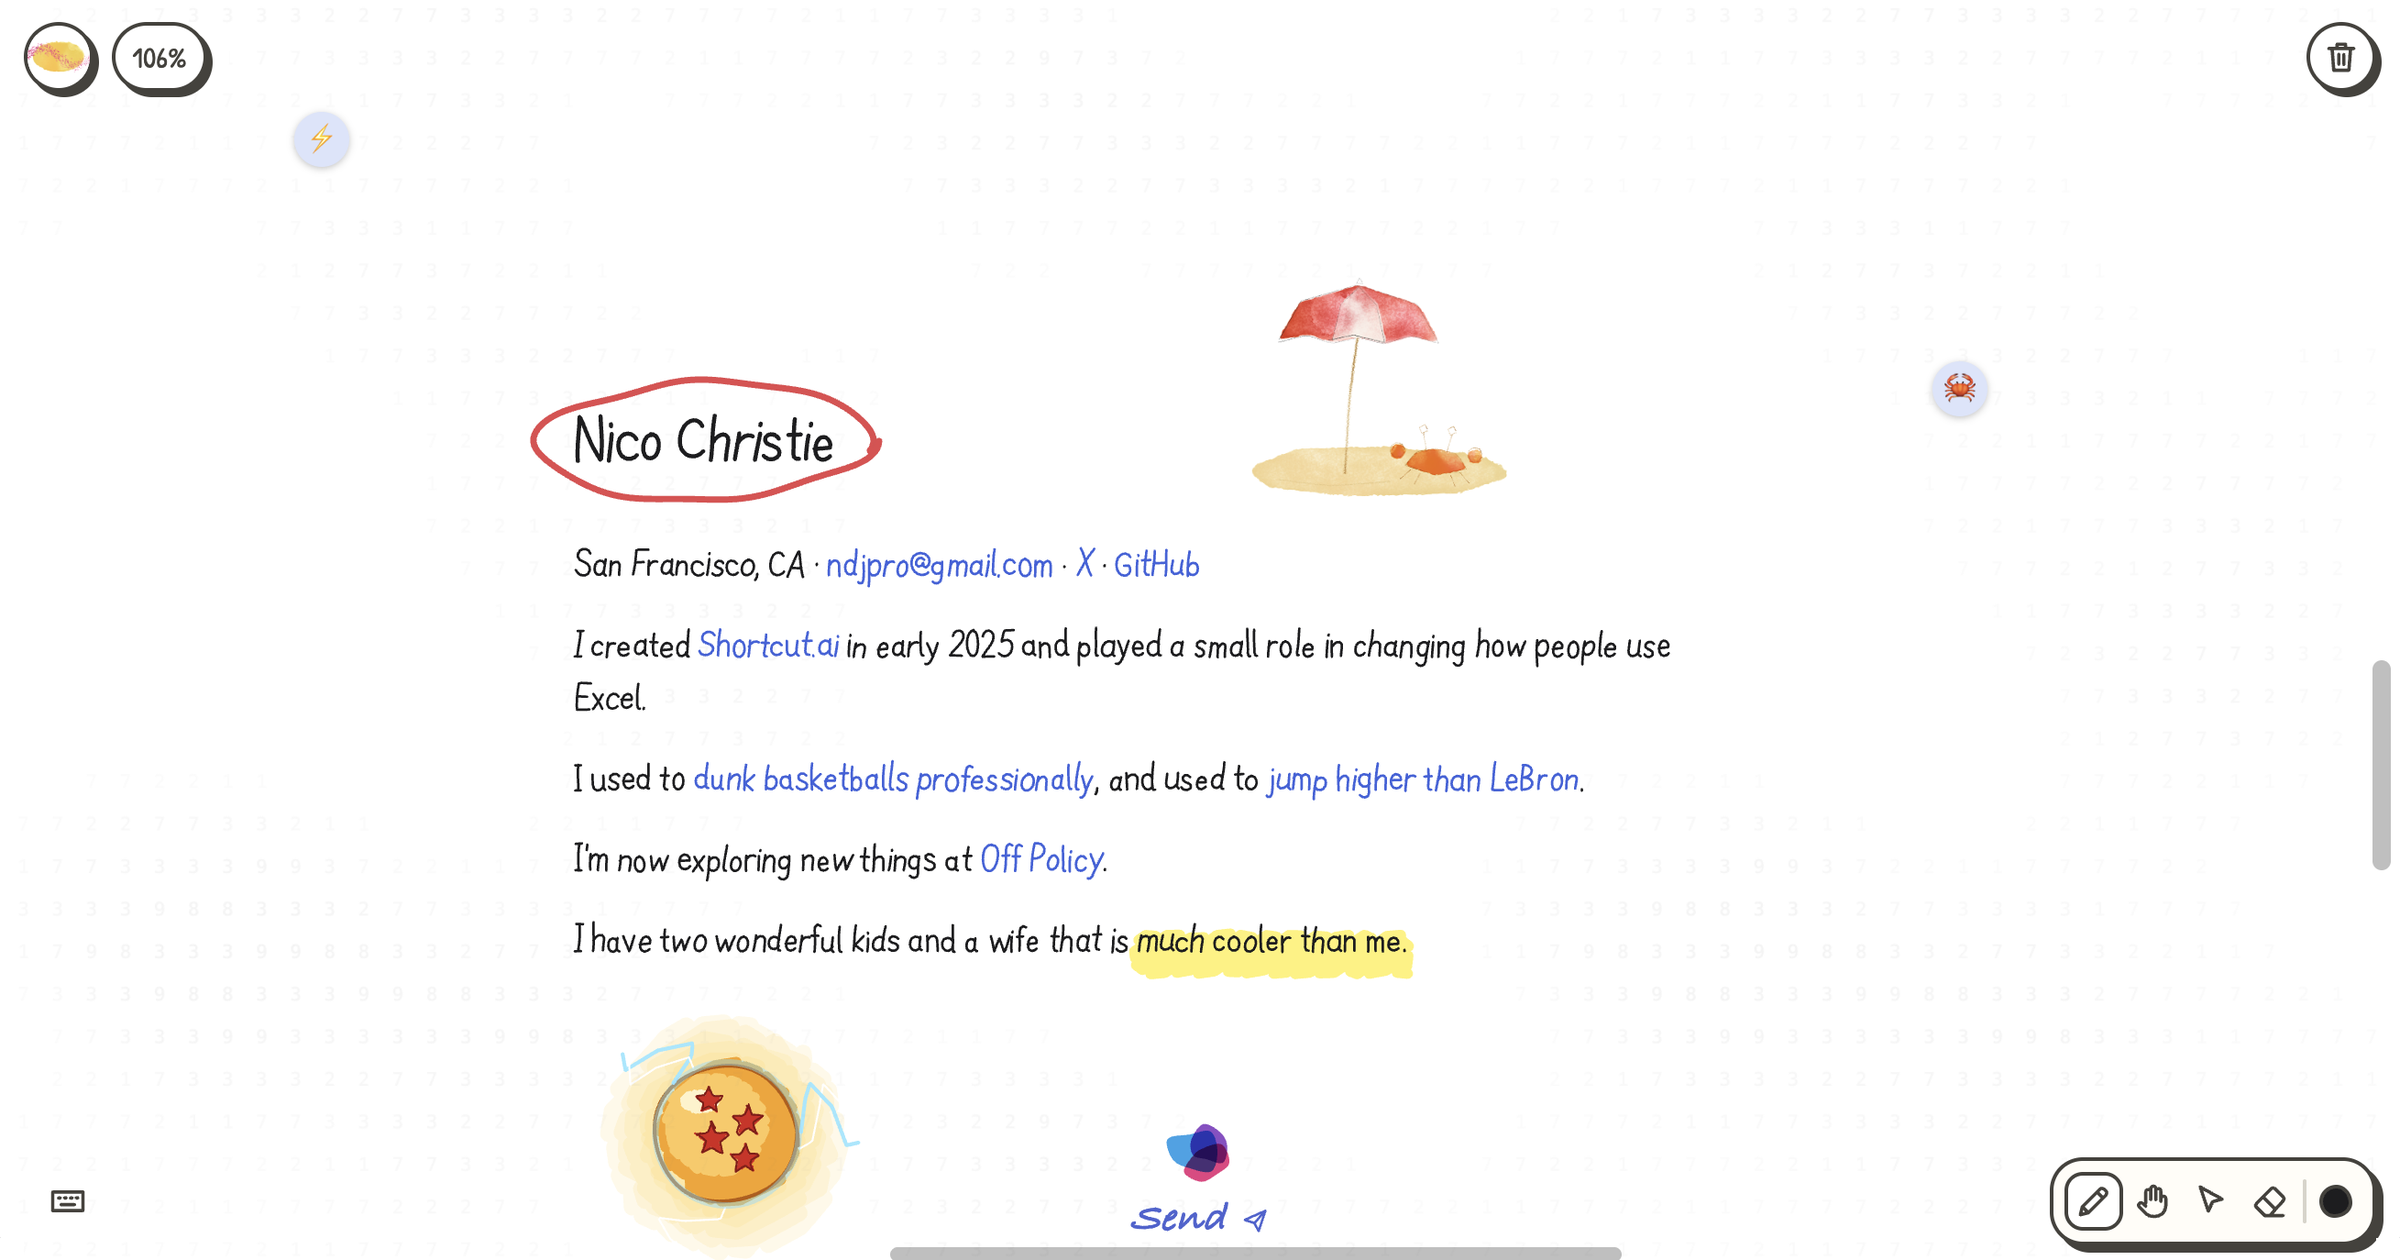
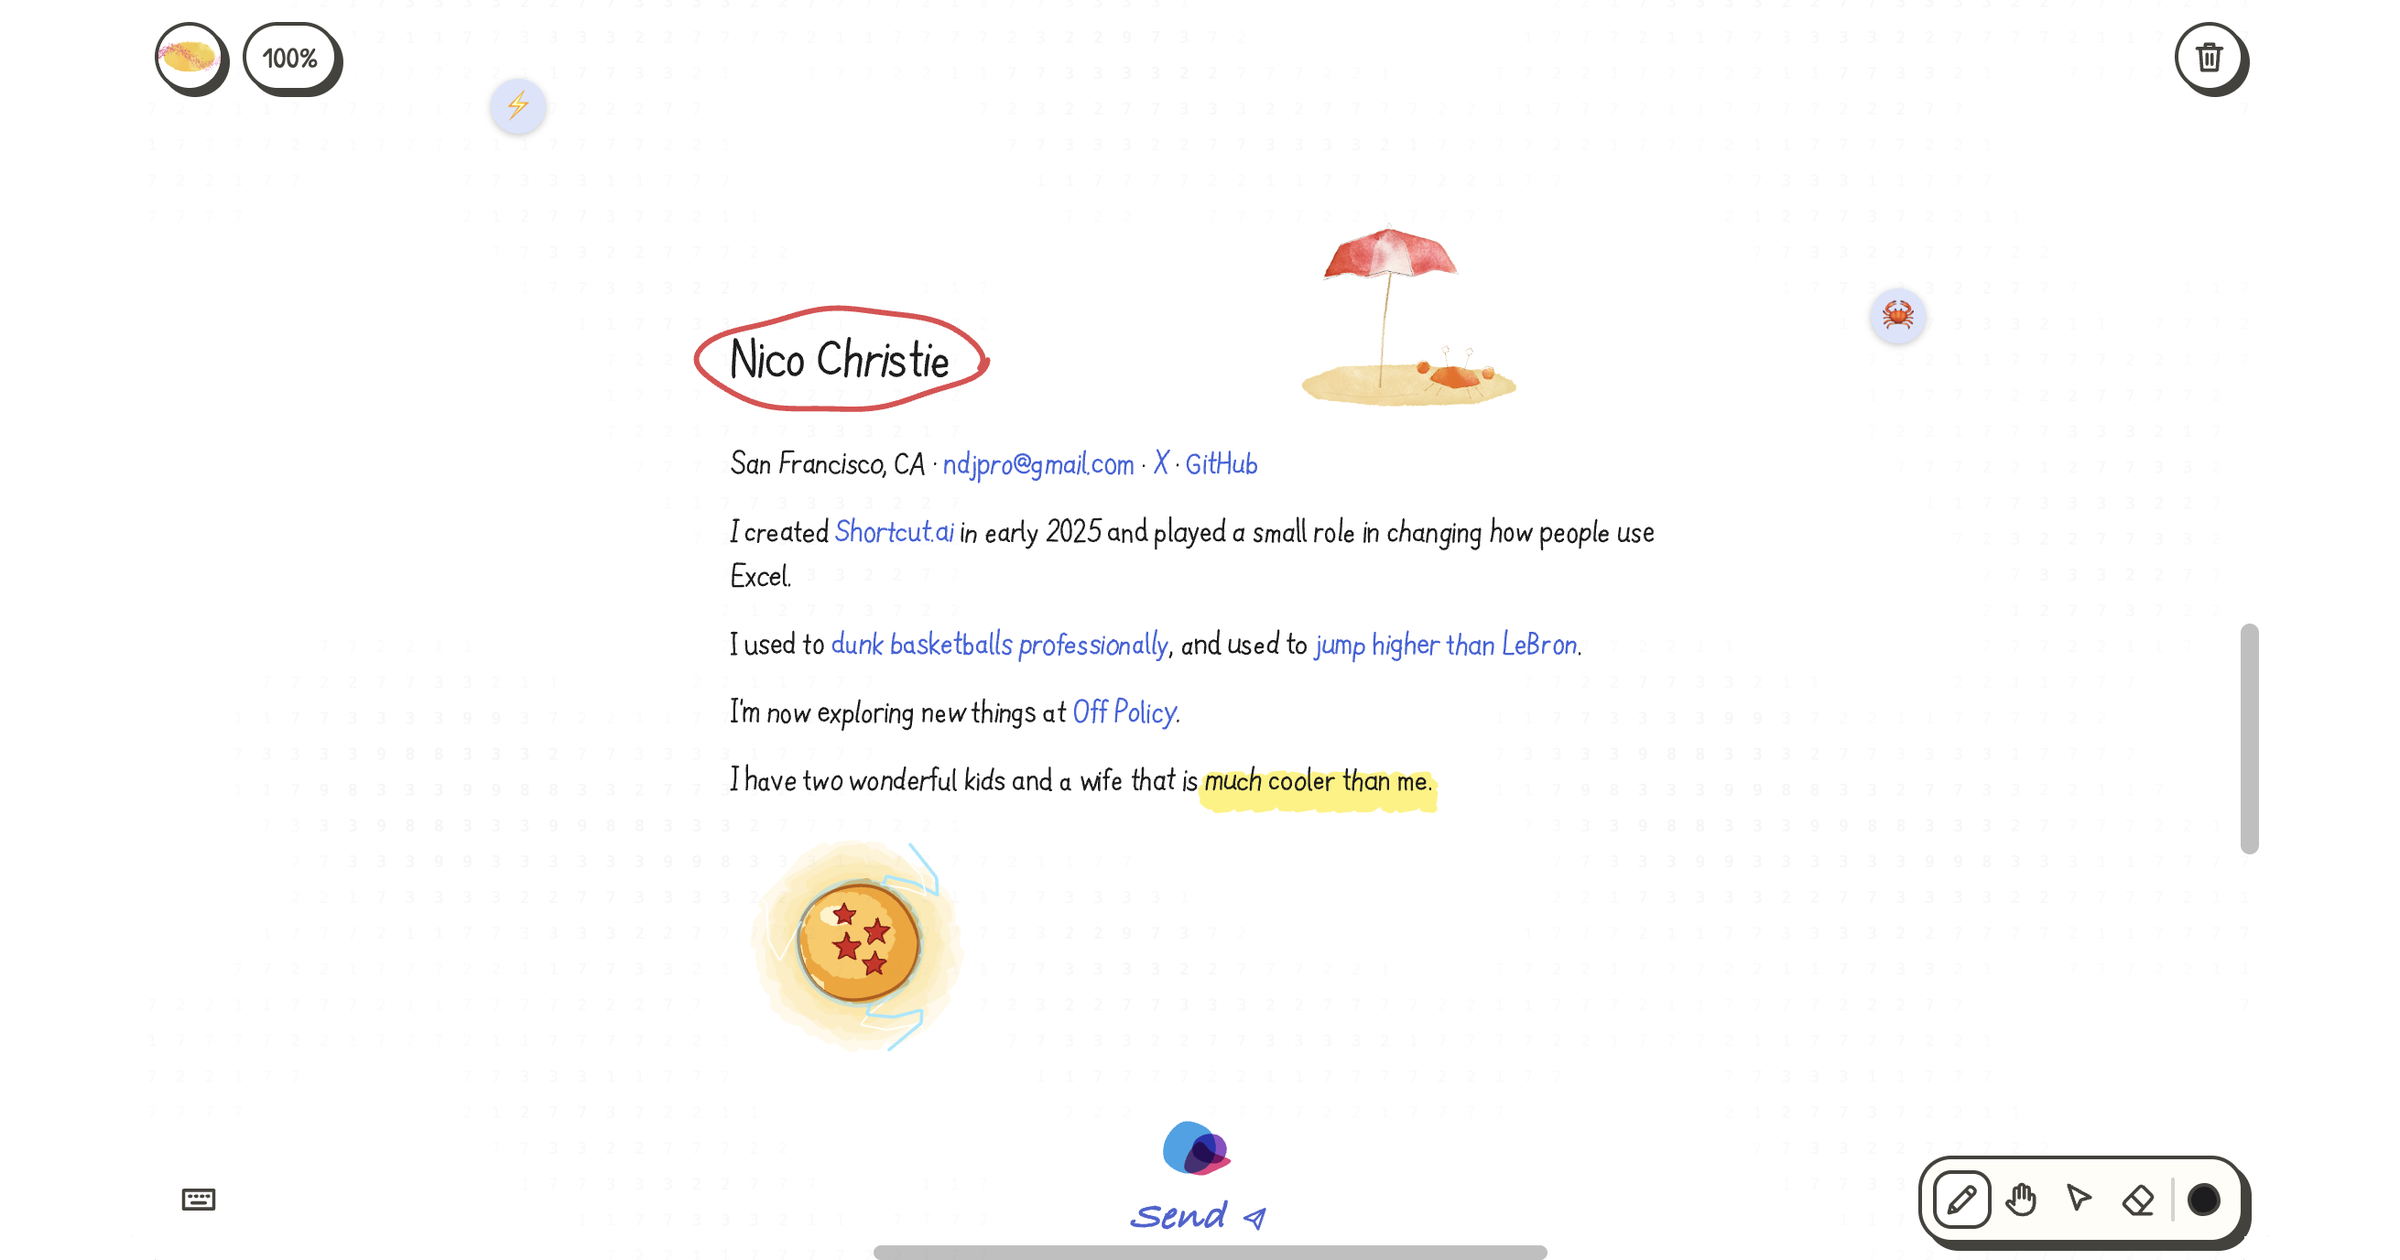
The link preview is the homepage exactly as Nico framed it, every button in, on the card's white

diff --git a/app/index.html b/app/index.html
@@ -18,12 +18,12 @@
     <meta property="og:description" content="San Francisco. Creator of Shortcut.ai, now at Off Policy. Draw on my homepage." />
     <meta property="og:url" content="https://nicochristie.com/" />
     <meta property="og:type" content="website" />
-    <meta property="og:image" content="https://nicochristie.com/og.png" />
+    <meta property="og:image" content="https://nicochristie.com/og.png?v=2" />
     <meta property="og:image:width" content="2400" />
     <meta property="og:image:height" content="1260" />
-    <meta property="og:image:alt" content="Nico Christie's homepage: his name circled in red pen, a beach umbrella and a Dragon Ball drawn around the words." />
+    <meta property="og:image:alt" content="Nico Christie's homepage: his name circled in red pen, a beach umbrella with a crab, the last line highlighted, and a Dragon Ball." />
     <meta name="twitter:card" content="summary_large_image" />
-    <meta name="twitter:image" content="https://nicochristie.com/og.png" />
+    <meta name="twitter:image" content="https://nicochristie.com/og.png?v=2" />
     <!-- the Worker the page sends its turns to (backend/) -->
     <meta name="draw-api" content="https://nico-personal-api.writearena.workers.dev" />
     <link rel="icon" type="image/svg+xml" href="/assets/icons/cuba-flag.svg" />

diff --git a/index.html b/index.html
@@ -18,12 +18,12 @@
     <meta property="og:description" content="San Francisco. Creator of Shortcut.ai, now at Off Policy. Draw on my homepage." />
     <meta property="og:url" content="https://nicochristie.com/" />
     <meta property="og:type" content="website" />
-    <meta property="og:image" content="https://nicochristie.com/og.png" />
+    <meta property="og:image" content="https://nicochristie.com/og.png?v=2" />
     <meta property="og:image:width" content="2400" />
     <meta property="og:image:height" content="1260" />
-    <meta property="og:image:alt" content="Nico Christie's homepage: his name circled in red pen, a beach umbrella and a Dragon Ball drawn around the words." />
+    <meta property="og:image:alt" content="Nico Christie's homepage: his name circled in red pen, a beach umbrella with a crab, the last line highlighted, and a Dragon Ball." />
     <meta name="twitter:card" content="summary_large_image" />
-    <meta name="twitter:image" content="https://nicochristie.com/og.png" />
+    <meta name="twitter:image" content="https://nicochristie.com/og.png?v=2" />
     <!-- the Worker the page sends its turns to (backend/) -->
     <meta name="draw-api" content="https://nico-personal-api.writearena.workers.dev" />
     <link rel="icon" type="image/svg+xml" href="/assets/icons/cuba-flag.svg" />
